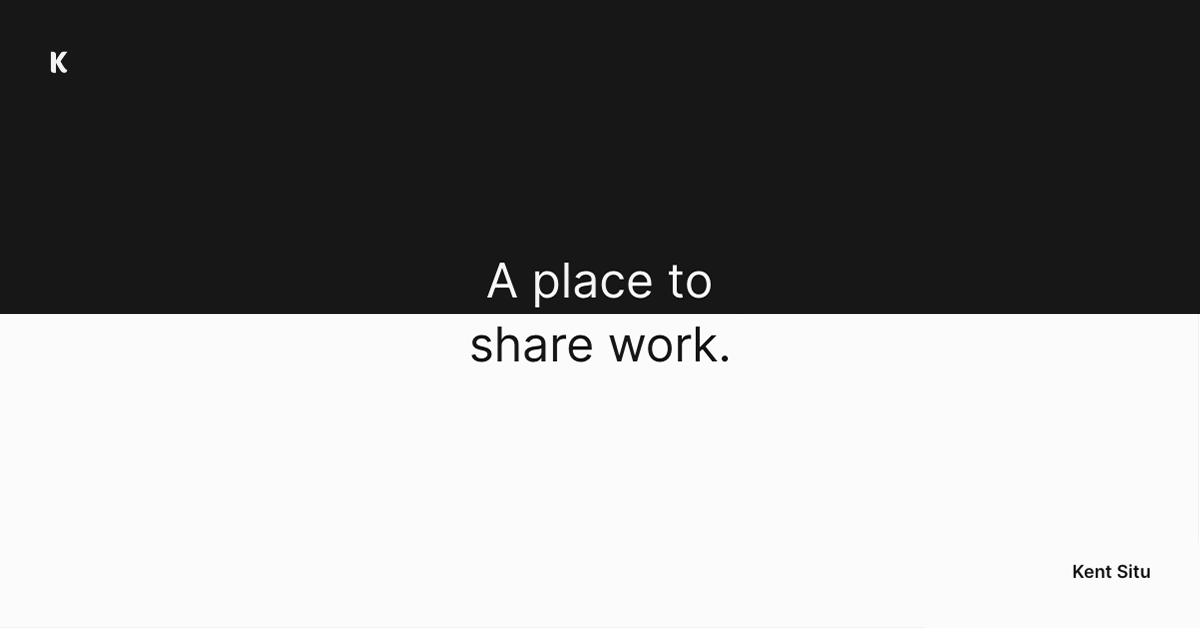
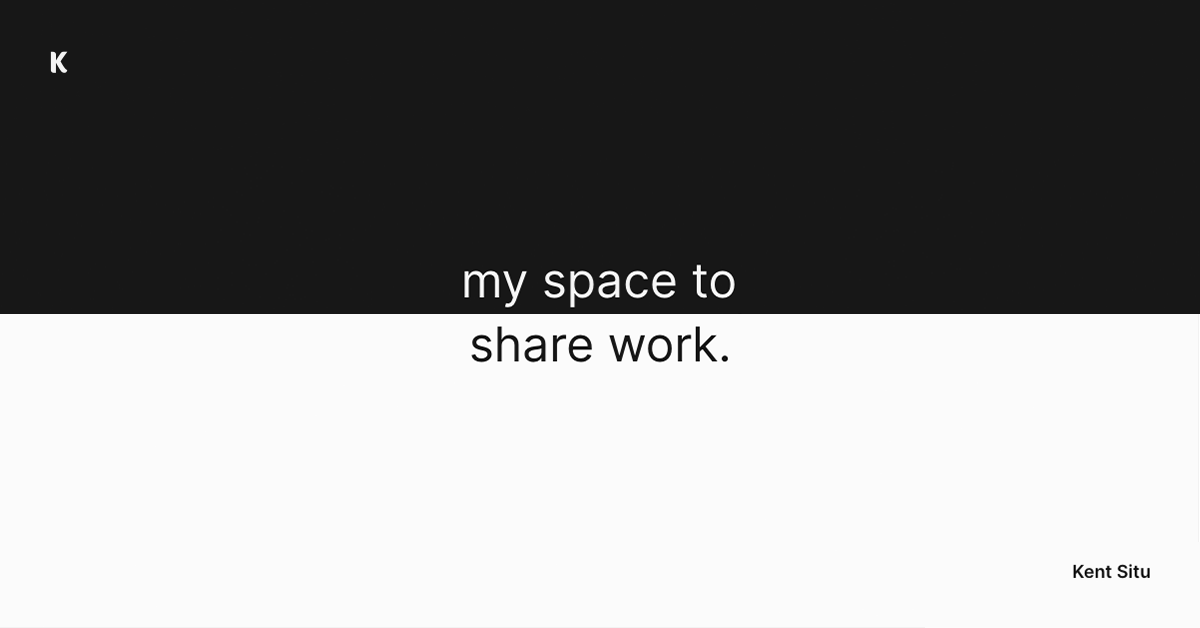
minor updates

Changed region(s): [[0.37, 0.4236, 0.6167, 0.4841]]

diff --git a/pages/index.tsx b/pages/index.tsx
@@ -9,7 +9,7 @@ export default function index() {
       <PageSEO title={siteMetadata.title} description={siteMetadata.description} />
       <div className="flex h-[calc(100vh-60px)] items-center justify-center px-6">
         <div className="space-y-4 text-center">
-          <h2 className="text-3xl sm:text-5xl">A place to</h2>
+          <h2 className="text-3xl sm:text-5xl">my space to</h2>
           <div className="text-3xl sm:text-5xl pl-3 sm:pl-[18px]">
             <Typewriter
               options={{
